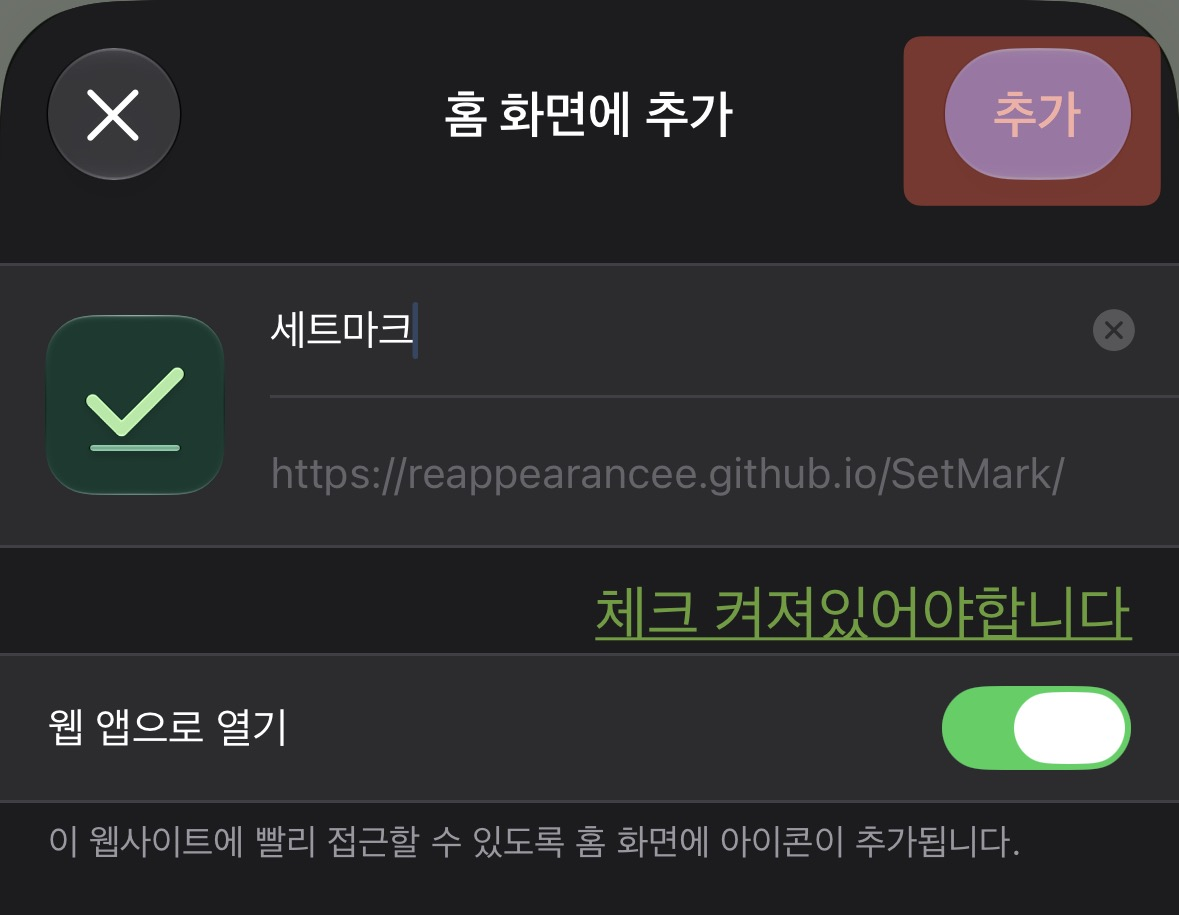
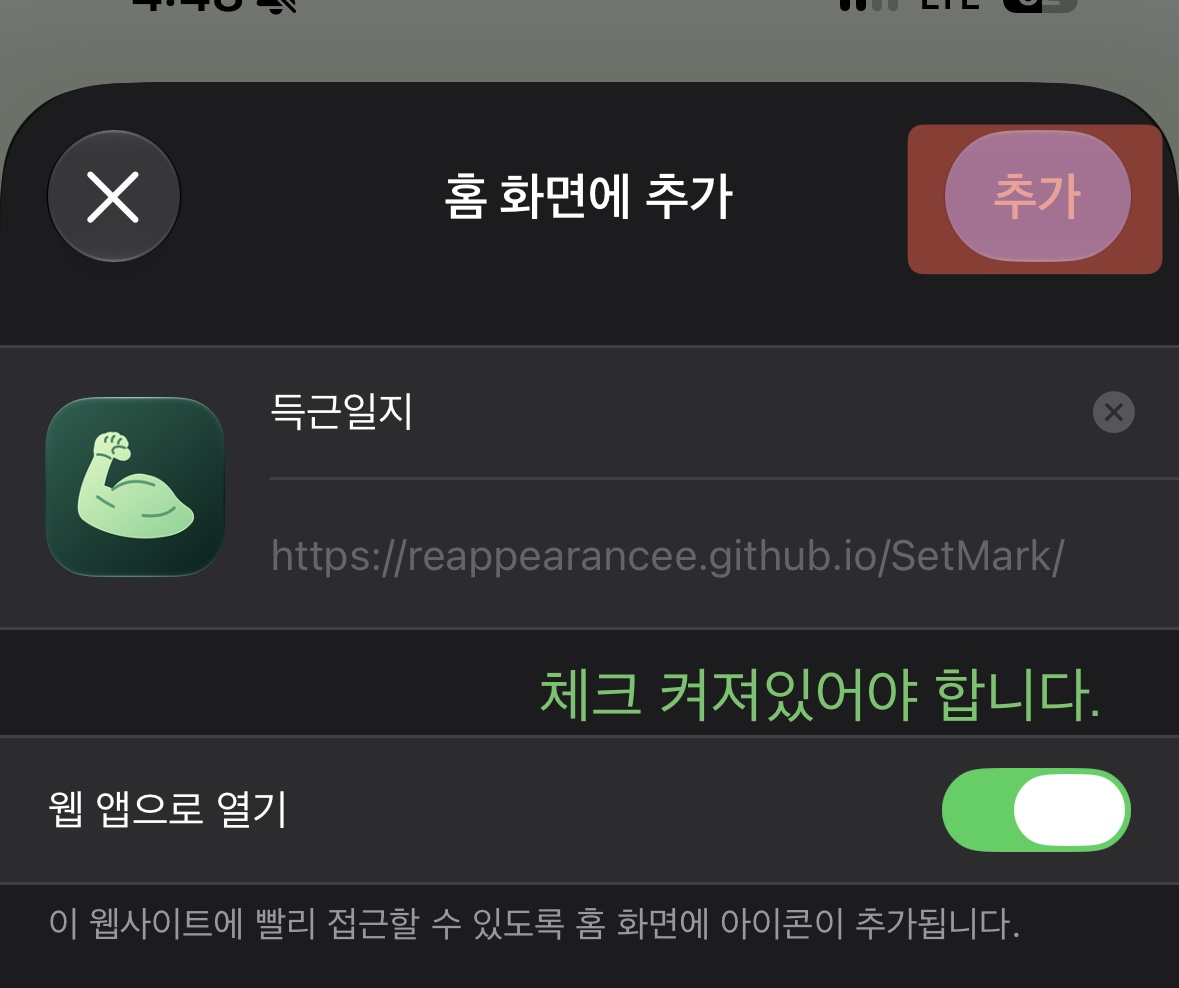
이름 변경

diff --git a/main/app.js b/main/app.js
@@ -10,7 +10,7 @@ guideStyles.href = new URL('./exercise-guide.css', import.meta.url).href;
 document.head.append(guideStyles);
 
 // The app module only loads in standalone mode. Keep the install page zoomable.
-document.documentElement.classList.add('setmark-app');
+document.documentElement.classList.add('deukgeun-app');
 const viewport = document.querySelector('meta[name="viewport"]');
 viewport?.setAttribute('content',
   'width=device-width,initial-scale=1,maximum-scale=1,user-scalable=no,viewport-fit=cover');
@@ -139,7 +139,7 @@ function home() {
   const today = new Date();
   const milestone = workoutMilestone(state.workouts, today);
   const plans = state.routines.filter(r=>r.weekdays.includes(today.getDay()+1));
-  return '<h1>세트마크</h1><p class="muted">'+(state.name ? esc(state.name)+'님 안녕하세요.' : '안녕하세요.')+'</p><section class="hero'+milestone.effect+'"><div class="hero-date"><small>'+today.toLocaleDateString('ko-KR',{month:'long',day:'numeric',weekday:'short'})+'</small><small class="hero-milestone">'+milestone.label+'</small></div><h2>오늘의 운동</h2>'+(state.draft?.startedAt?'<p>운동 시간 <strong class="clock" data-clock></strong></p>':'')+btn(state.draft?.startedAt?'운동 이어서 기록':state.draft?'운동 준비 이어서':'▶ 자유 운동 시작','start','primary wide')+'</section><section><h2>오늘의 루틴</h2>'+(plans.map(r=>btn(esc(r.title),'start','exercise',r.id)).join('')||'<p class="muted">오늘 예정된 루틴이 없어요.</p>')+'</section><section class="section"><h2>최근 기록</h2>'+recordList(sorted().slice(0,3))+'</section>';
+  return '<h1>득근일지</h1><p class="muted">'+(state.name ? esc(state.name)+'님 안녕하세요.' : '안녕하세요.')+'</p><section class="hero'+milestone.effect+'"><div class="hero-date"><small>'+today.toLocaleDateString('ko-KR',{month:'long',day:'numeric',weekday:'short'})+'</small><small class="hero-milestone">'+milestone.label+'</small></div><h2>오늘의 운동</h2>'+(state.draft?.startedAt?'<p>운동 시간 <strong class="clock" data-clock></strong></p>':'')+btn(state.draft?.startedAt?'운동 이어서 기록':state.draft?'운동 준비 이어서':'▶ 자유 운동 시작','start','primary wide')+'</section><section><h2>오늘의 루틴</h2>'+(plans.map(r=>btn(esc(r.title),'start','exercise',r.id)).join('')||'<p class="muted">오늘 예정된 루틴이 없어요.</p>')+'</section><section class="section"><h2>최근 기록</h2>'+recordList(sorted().slice(0,3))+'</section>';
 }
 function restControls(seconds, action) {
   return '<div class="rest-controls" role="group" aria-label="휴식 시간">'
@@ -406,7 +406,7 @@ function releaseBoard() {
       +release.changes.map(change=>'<li>'+esc(change)+'</li>').join('')+'</ul></article>').join('');
 }
 function settings() {
-  return '<h1>설정</h1><section class="card"><h2>프로필</h2>'+btn(esc(state.name||'이름 입력'),'name')+'</section><section class="card"><h2>운동</h2>'+btn('기본 휴식 타이머 · '+restLabel(restFor()),'default-rest','wide')+'<label class="rest-sound"><span>휴식 종료음</span><input id="rest-sound" type="checkbox" role="switch" '+(state.restSound?'checked':'')+'></label><small>세트마크 화면을 보고 있을 때 재생돼요.</small></section><section class="card stack"><h2>데이터</h2>'+btn('JSON으로 내보내기','export')+btn('JSON 적용하기','import')+'<input type="file" id="backup-file" accept=".json,application/json" hidden>'+ '<small>운동과 루틴은 이 기기의 웹앱에 저장돼요.</small></section><section class="card">'+btn('수정사항'+(hasUnreadReleases()?newBadge:''),'releases','wide release-link')+'</section>';
+  return '<h1>설정</h1><section class="card"><h2>프로필</h2>'+btn(esc(state.name||'이름 입력'),'name')+'</section><section class="card"><h2>운동</h2>'+btn('기본 휴식 타이머 · '+restLabel(restFor()),'default-rest','wide')+'<label class="rest-sound"><span>휴식 종료음</span><input id="rest-sound" type="checkbox" role="switch" '+(state.restSound?'checked':'')+'></label><small>득근일지 화면을 보고 있을 때 재생돼요.</small></section><section class="card stack"><h2>데이터</h2>'+btn('JSON으로 내보내기','export')+btn('JSON 적용하기','import')+'<input type="file" id="backup-file" accept=".json,application/json" hidden>'+ '<small>운동과 루틴은 이 기기의 웹앱에 저장돼요.</small></section><section class="card">'+btn('수정사항'+(hasUnreadReleases()?newBadge:''),'releases','wide release-link')+'</section>';
 }
 function exerciseInfo(name, content = esc(name)) {
   return '<button type="button" class="exercise-info" data-action="exercise-info" data-value="'+esc(name)+'" aria-label="'+esc(name)+' 운동 방법">'+content+'</button>';
@@ -627,14 +627,14 @@ async function finish() {
 function download() {
   const data = {formatVersion:1, exportedAt:new Date().toISOString(), workouts:state.workouts, routines:state.routines.map(r=>({...r, exercises:r.exercises.map(e=>({...e,sets:e.sets.map(s=>isCardio(e)?cardioEntry(s):{id:s.id,weightKg:Number(s.weight.trim().replace(',','.'))||0,repetitions:Number(s.reps)||0,restSeconds:s.restSeconds})}))}))};
   const url = URL.createObjectURL(new Blob([JSON.stringify(data,null,2)],{type:'application/json'}));
-  const link = document.createElement('a'); link.href=url; link.download='Setmark-'+new Date().toISOString().slice(0,10)+'.json'; link.click();
+  const link = document.createElement('a'); link.href=url; link.download='득근일지-'+new Date().toISOString().slice(0,10)+'.json'; link.click();
   setTimeout(()=>URL.revokeObjectURL(url),1000);
 }
 function readBackup(data) {
   const validId = id => typeof id==='string' && id.trim().length>0;
   const validDate = value => typeof value==='string' && Number.isFinite(Date.parse(value));
   if (data?.formatVersion!==1 || !Array.isArray(data.workouts) || !Array.isArray(data.routines)) {
-    throw new Error('세트마크에서 내보낸 JSON 파일을 선택해 주세요.');
+    throw new Error('득근일지에서 내보낸 JSON 파일을 선택해 주세요.');
   }
   function records(items, routine) {
     const ids = new Set();

diff --git a/main/exercise-guide.css b/main/exercise-guide.css
@@ -15,16 +15,16 @@
 
 
 /* Preserve single-finger scrolling without pinch or double-tap zoom. */
-html.setmark-app,
-html.setmark-app #app,
-html.setmark-app #app *,
-html.setmark-app .exercise-guide-dialog,
-html.setmark-app .exercise-guide-dialog * {
+html.deukgeun-app,
+html.deukgeun-app #app,
+html.deukgeun-app #app *,
+html.deukgeun-app .exercise-guide-dialog,
+html.deukgeun-app .exercise-guide-dialog * {
   touch-action: pan-x pan-y;
 }
-html.setmark-app input:not([type="checkbox"]):not([type="radio"]),
-html.setmark-app select,
-html.setmark-app textarea {
+html.deukgeun-app input:not([type="checkbox"]):not([type="radio"]),
+html.deukgeun-app select,
+html.deukgeun-app textarea {
   font-size: max(16px, 1em);
 }
 
@@ -82,16 +82,16 @@ html.hide-page-scrollbar::-webkit-scrollbar { display: none; }
 }
 .routine-order strong { overflow-wrap:anywhere; }
 .routine-order li.dragging { background:#e4f0e8; }
-html.setmark-app #app button[data-order-handle] { touch-action:none; cursor:grab; padding:0; }
+html.deukgeun-app #app button[data-order-handle] { touch-action:none; cursor:grab; padding:0; }
 .record-exercise > button[data-action="record-add-set"] { margin-top:10px; }
 
 /* Suppress iOS selection and callouts on display content. */
-html.setmark-app body {
+html.deukgeun-app body {
   -webkit-user-select: none;
   user-select: none;
   -webkit-touch-callout: none;
 }
-html.setmark-app :is(input, textarea, [contenteditable="true"]) {
+html.deukgeun-app :is(input, textarea, [contenteditable="true"]) {
   -webkit-user-select: text;
   user-select: text;
   -webkit-touch-callout: default;

diff --git a/install/index.html b/install/index.html
@@ -5,10 +5,11 @@
 <meta name="viewport" content="width=device-width,initial-scale=1,viewport-fit=cover">
 <meta name="theme-color" content="#f4f7f4">
 <meta name="apple-mobile-web-app-capable" content="yes">
+<meta name="apple-mobile-web-app-title" content="득근일지">
 <link rel="apple-touch-icon" href="../main/icon-192.png">
 <link rel="manifest" href="../manifest.webmanifest">
 <link rel="stylesheet" href="./style.css">
-<title>세트마크</title>
+<title>득근일지</title>
 </head>
 <body>
 <script>
@@ -19,7 +20,7 @@ if (matchMedia('(display-mode: standalone)').matches || navigator.standalone ===
 <main id="install-guide" class="install-guide">
   <header class="install-header">
     <img src="../main/icon-192.png" width="64" height="64" alt="">
-    <h1>세트마크</h1>
+    <h1>득근일지</h1>
     <p>홈 화면에 추가해서 운동을 기록해 보세요.</p>
   </header>
   <section class="card" aria-labelledby="install-title">
@@ -48,7 +49,7 @@ if (matchMedia('(display-mode: standalone)').matches || navigator.standalone ===
       </li>
     </ol>
     <p>Safari에 <strong>공유</strong> 버튼(□↑)이 바로 보이면, 공유 메뉴에서 <strong>홈 화면에 추가</strong>를 찾을 수 있어요.</p>
-    <p>추가한 뒤 홈 화면의 <strong>세트마크</strong> 아이콘을 눌러요.</p>
+    <p>추가한 뒤 홈 화면의 <strong>득근일지</strong> 아이콘을 눌러요.</p>
   </section>
 </main>
 </body>

diff --git a/sw.js b/sw.js
@@ -1,4 +1,4 @@
-const cacheName = 'setmark-pwa-v54';
+const cacheName = 'deukgeun-ilji-pwa-v55';
 const shell = [
   "./",
   "./index.html",
@@ -33,7 +33,7 @@ self.addEventListener('message', event => {
 self.addEventListener('activate', event => {
   event.waitUntil((async () => {
     for (const key of await caches.keys()) {
-      if (key.startsWith('setmark-pwa-') && key !== cacheName) await caches.delete(key);
+      if ((key.startsWith('setmark-pwa-') || key.startsWith('deukgeun-ilji-pwa-')) && key !== cacheName) await caches.delete(key);
     }
     await self.clients.claim();
   })());

diff --git a/index.html b/index.html
@@ -5,10 +5,11 @@
 <meta name="viewport" content="width=device-width,initial-scale=1,viewport-fit=cover">
 <meta name="theme-color" content="#f4f7f4">
 <meta name="apple-mobile-web-app-capable" content="yes">
+<meta name="apple-mobile-web-app-title" content="득근일지">
 <link rel="apple-touch-icon" href="./main/icon-192.png">
 <link rel="manifest" href="./manifest.webmanifest">
 <link rel="stylesheet" href="./main/style.css">
-<title>세트마크</title>
+<title>득근일지</title>
 </head>
 <body>
 <div id="app" hidden></div>

diff --git a/main/launch.js b/main/launch.js
@@ -6,7 +6,7 @@ if (installed) {
     document.querySelector('#app').hidden = false;
   }).catch(() => {
     document.querySelector('#notice').textContent =
-      '세트마크를 열지 못했어요. 인터넷에 연결한 뒤 다시 열어 주세요.';
+      '득근일지를 열지 못했어요. 인터넷에 연결한 뒤 다시 열어 주세요.';
   });
 } else {
   location.replace(new URL('../install/', import.meta.url));

diff --git a/main/storage.js b/main/storage.js
@@ -12,7 +12,7 @@ function openDatabase() {
     };
     request.onsuccess = () => resolve(request.result);
     request.onerror = () => reject(request.error);
-    request.onblocked = () => reject(new Error('다른 세트마크 창을 닫은 뒤 다시 시도해 주세요.'));
+    request.onblocked = () => reject(new Error('다른 득근일지 창을 닫은 뒤 다시 시도해 주세요.'));
   });
 }
 

diff --git a/main/changelog.js b/main/changelog.js
@@ -426,5 +426,14 @@ export const releases = [
     "changes": [
       "홈 문구 오른쪽에 운동 일차별 이모지 표시"
     ]
+  },
+  {
+    "id": 53,
+    "date": "2026-11-14 16:48",
+    "title": "득근일지로 이름 변경",
+    "changes": [
+      "설치 안내와 앱에 득근일지 이름 적용",
+      "JSON 백업 파일 이름 변경"
+    ]
   }
 ];
